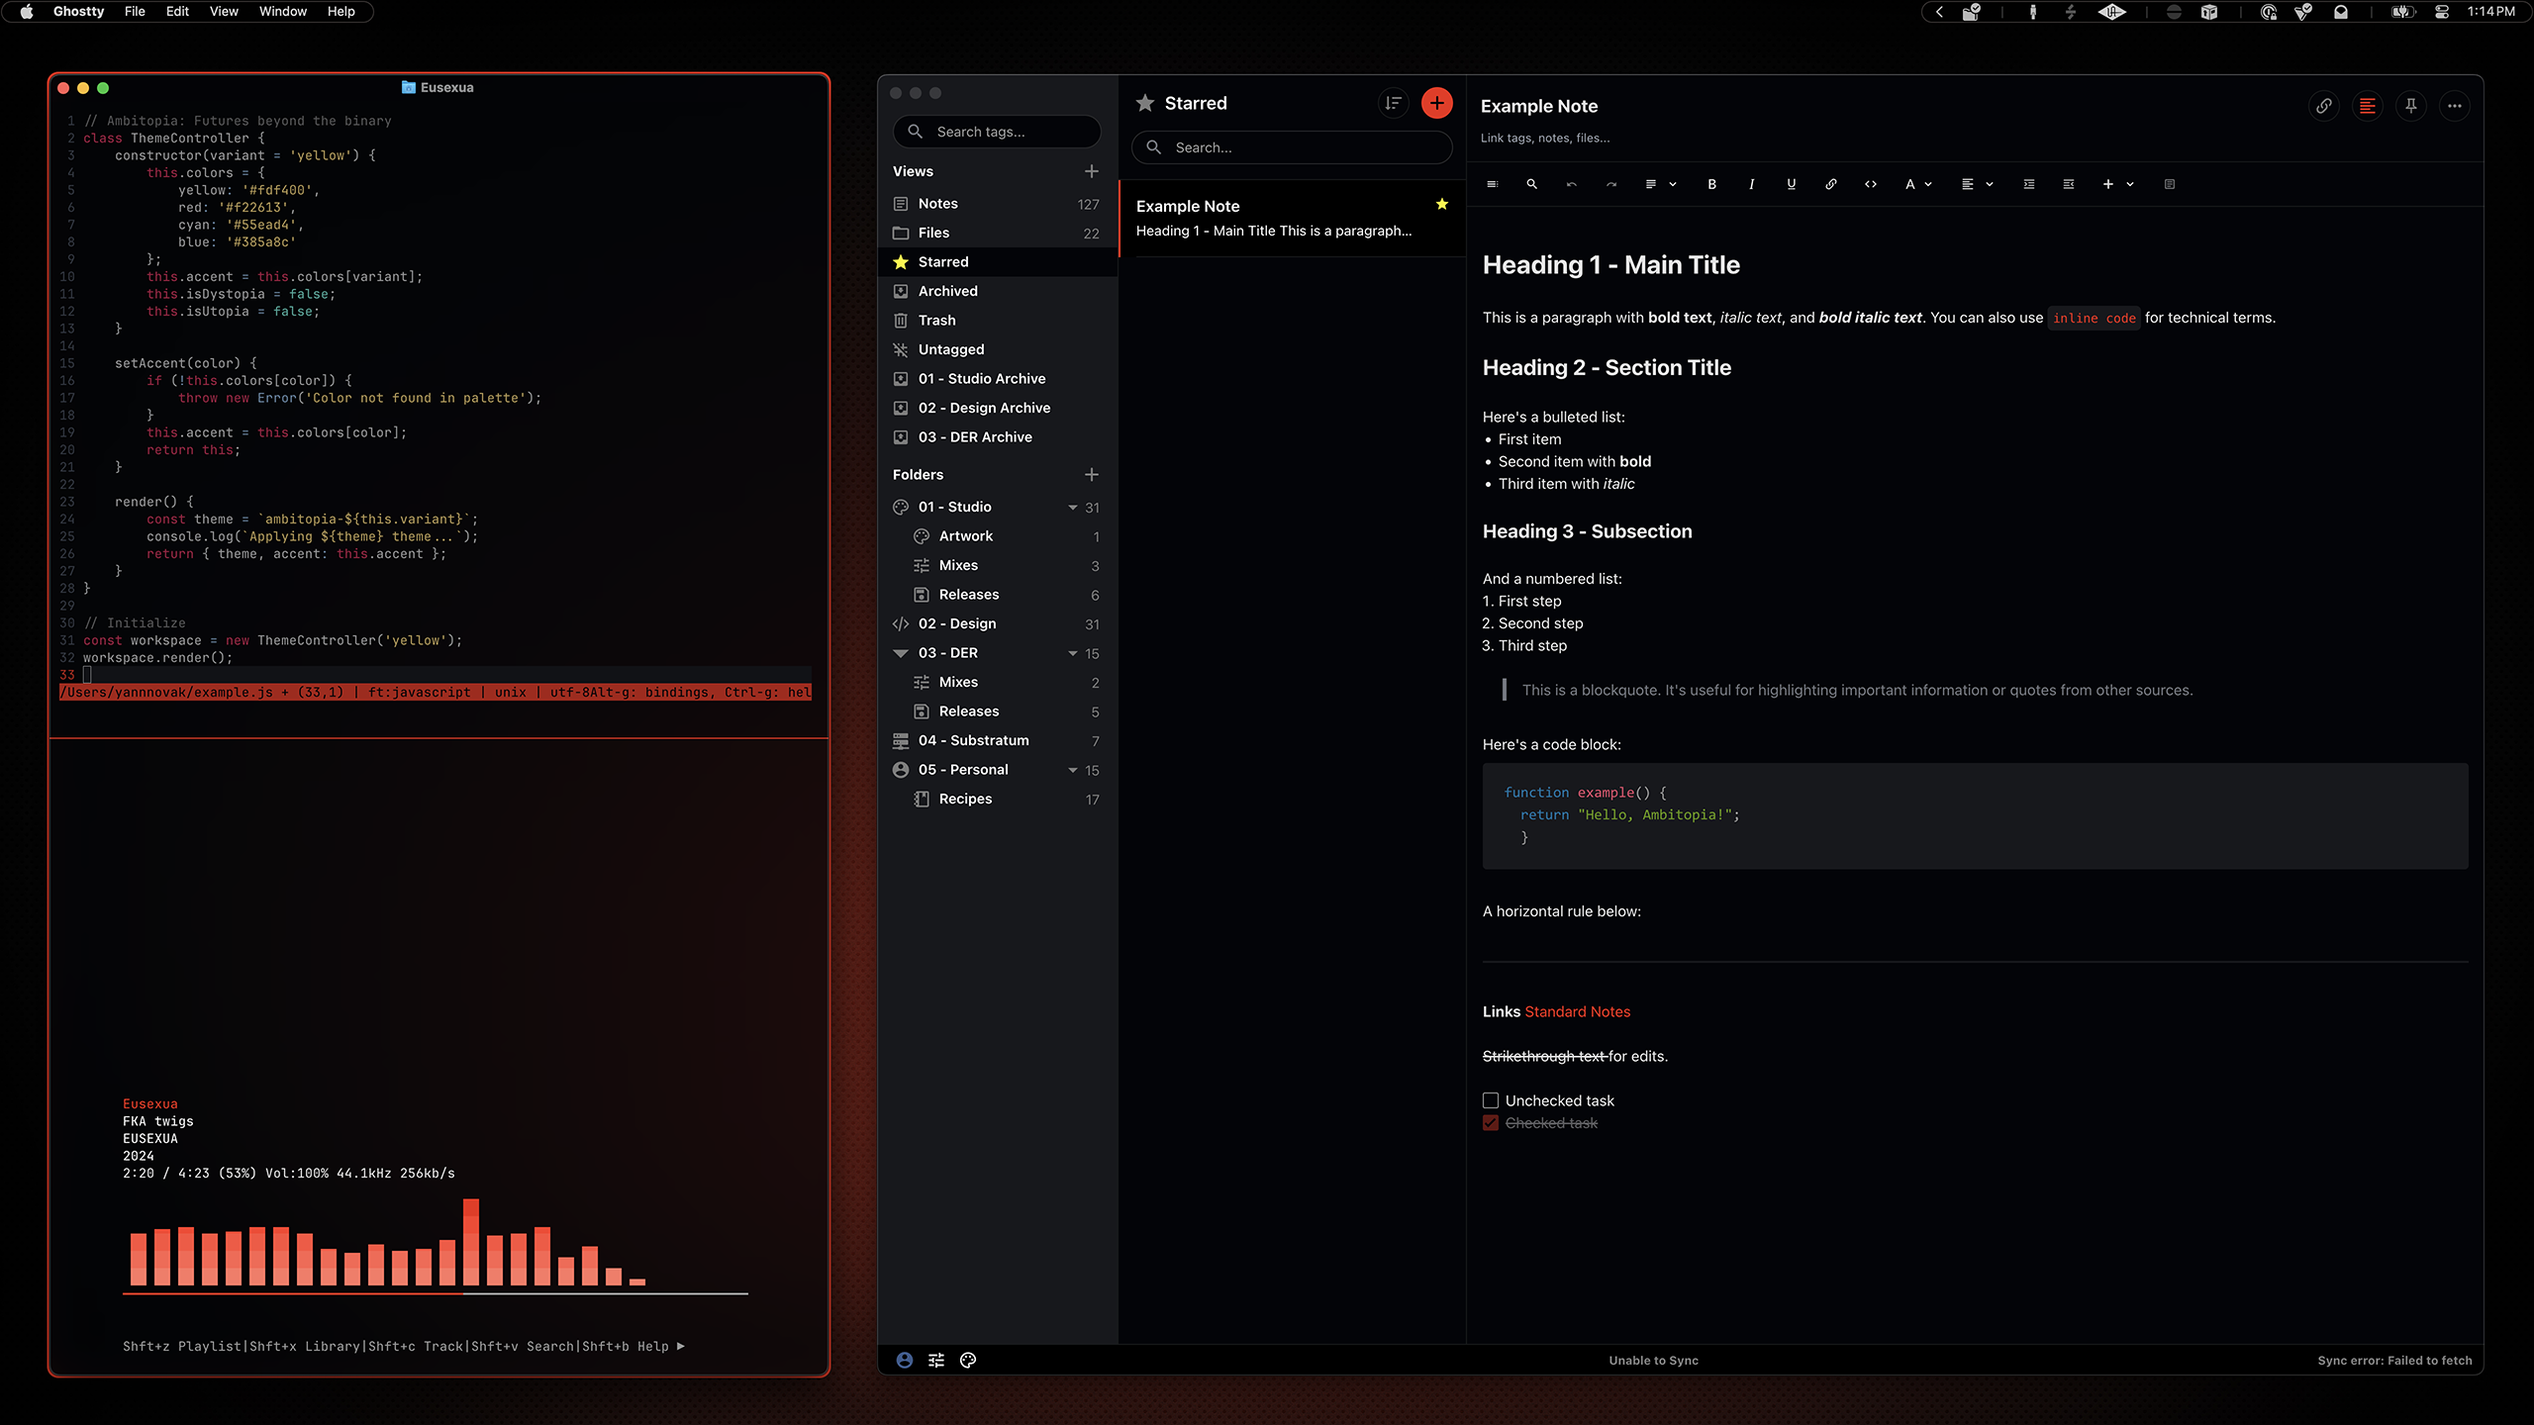
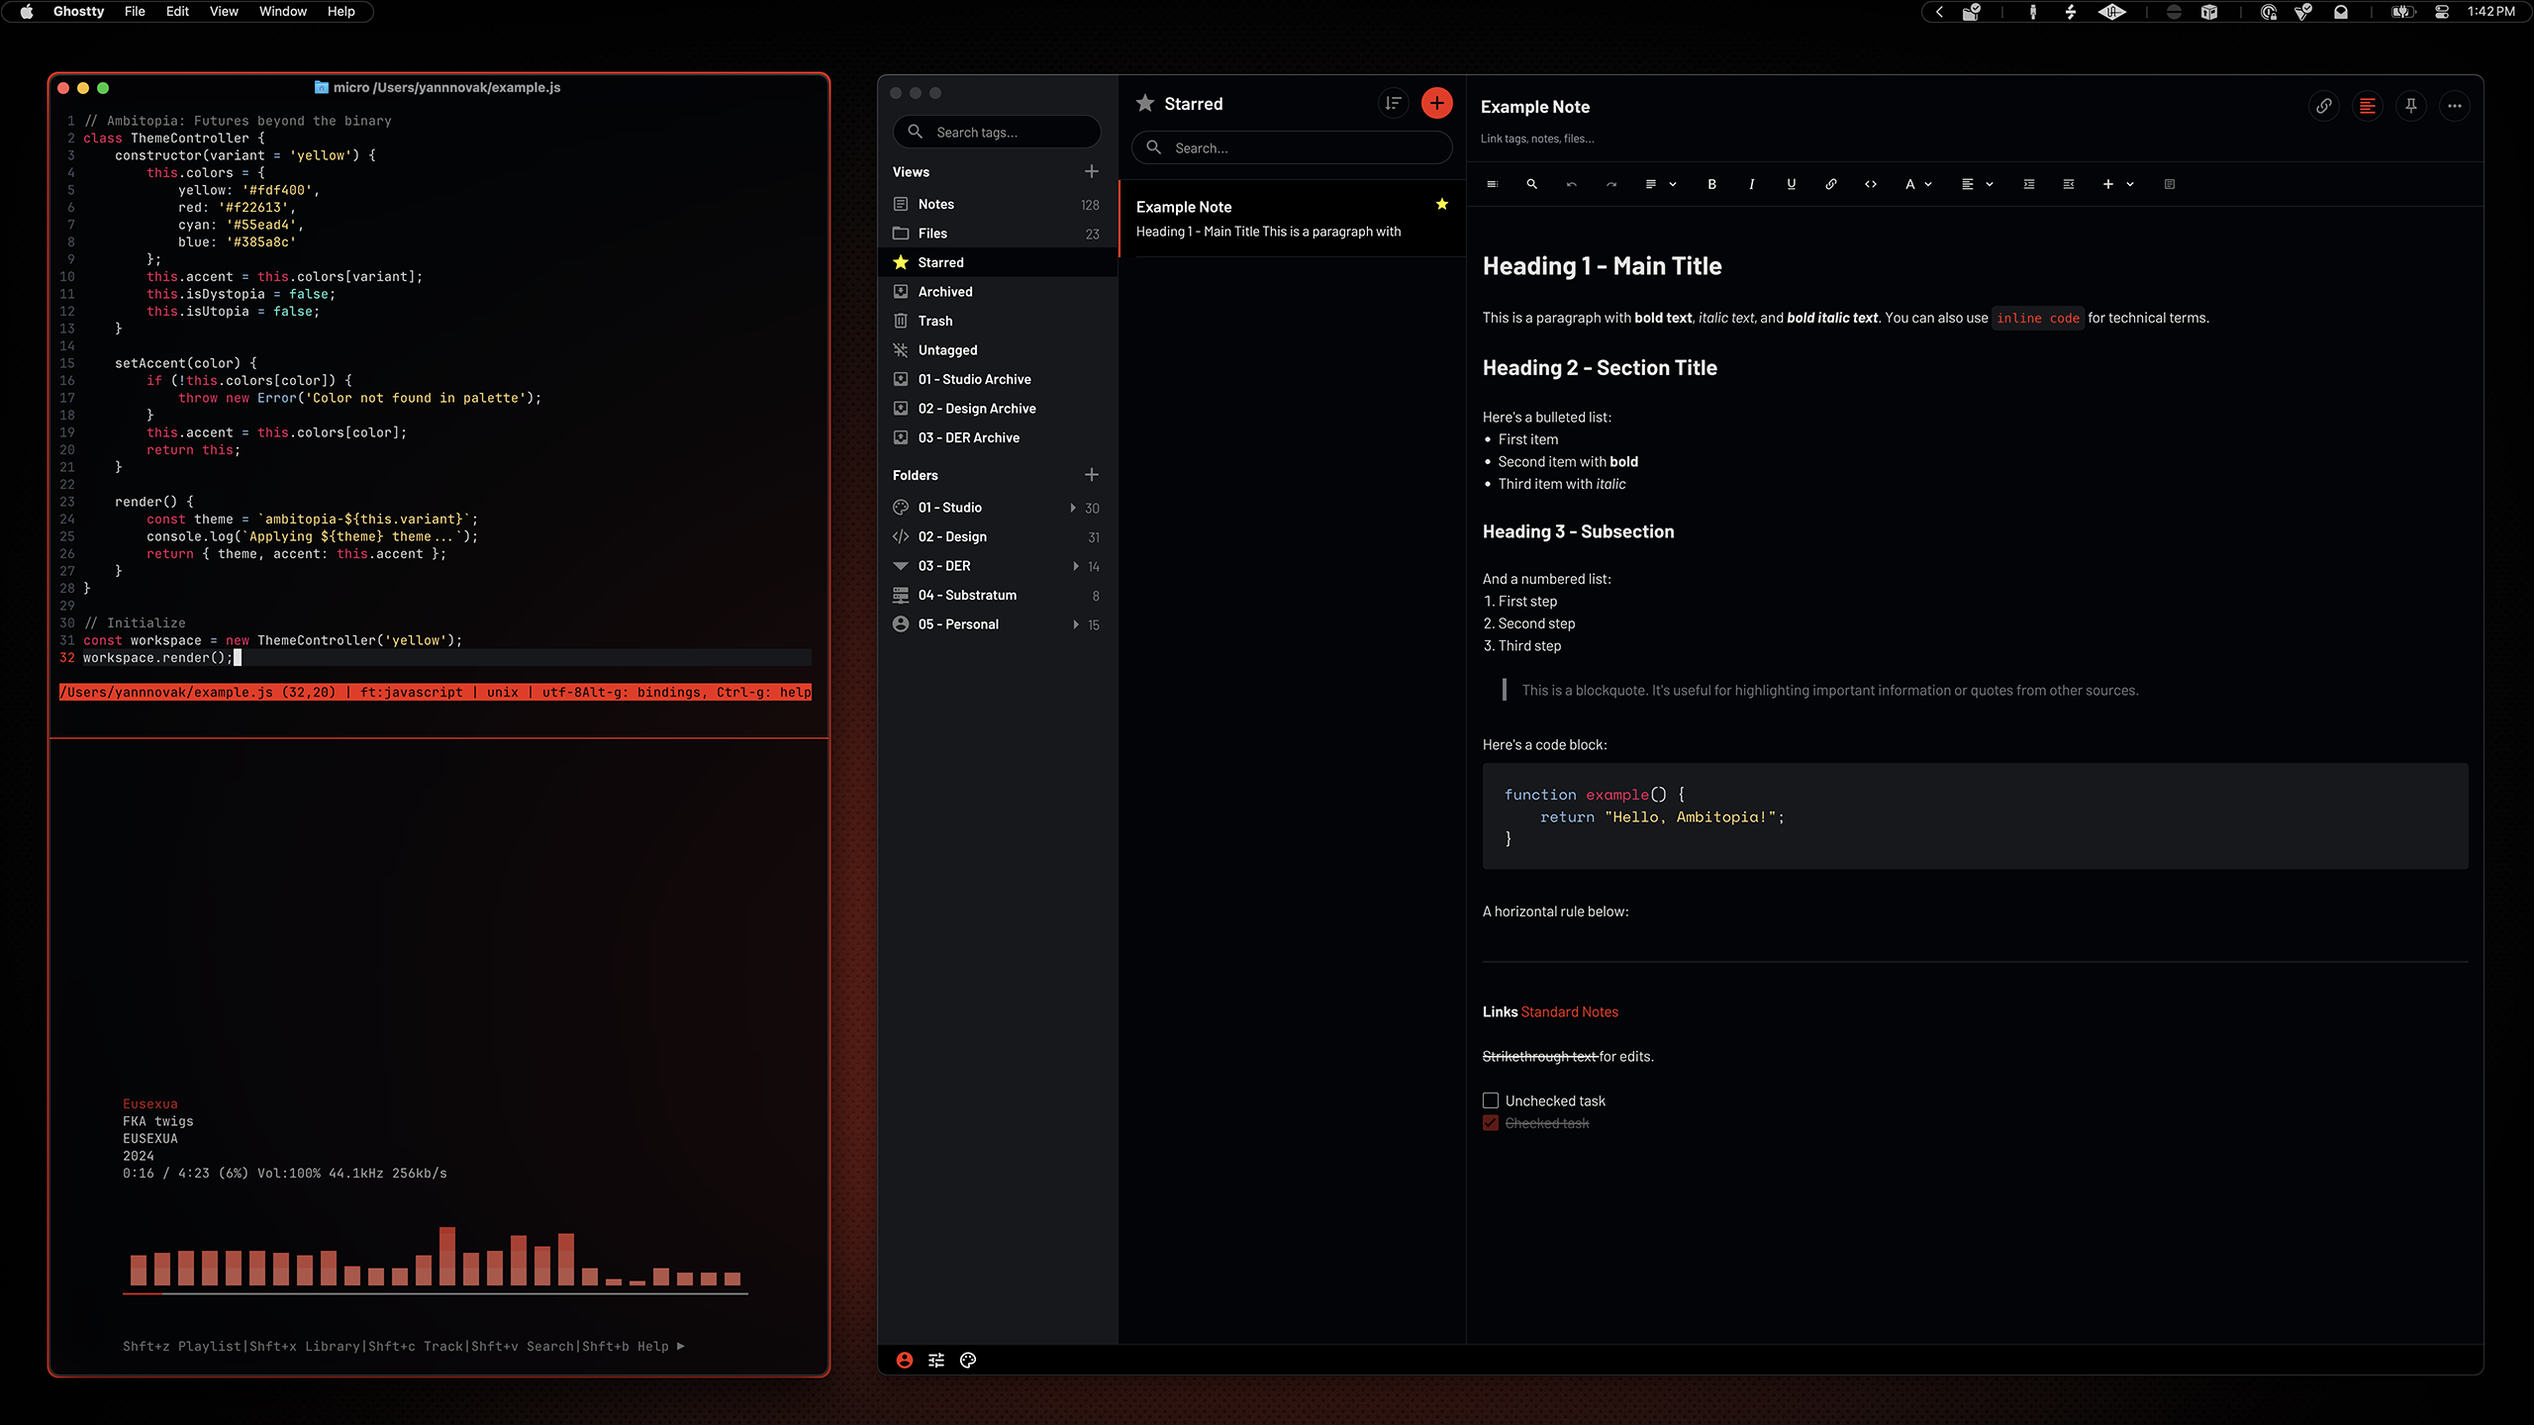
Added Kagi theme, added custom fonts to various themes, and updated syntax highlighting.

diff --git a/themes/kagi/ambitopia-yellow.css b/themes/kagi/ambitopia-yellow.css
@@ -1,0 +1,105 @@
+/* ==========================================
+= Ambitopia [yellow]
+========================================== */
+
+@import url(https://fonts.bunny.net/css?family=barlow:400,400i,500,500i,600,600i,700,700i);
+@import url(https://fonts.bunny.net/css?family=space-mono:400,400i,700,700i);
+
+:root {
+    --ambitopia-accent: #fdf400;
+    --ambitpoia-background: #030408;
+    --ambitpoia-background-secondary: #17181c;
+    --ambitpoia-background-tertiary: #2e2f32;
+
+    --input-bg: var(--ambitpoia-background-secondary);
+    --primary-hover: var(--ambitopia-accent);
+    --result-item-title-border_hover: var(--ambitopia-accent);
+    --nav_n_se_line: var(--ambitopia-accent);
+    --related-item-bg: var(--ambitpoia-background-secondary);
+
+    --hover-bg: color-mix(in srgb, var(--ambitpoia-background) 20%, transparent);
+    --related-item-hover-bg: var(--ambitpoia-background-tertiary);
+
+    --warning: #f9690e;
+}
+.doggo_sit_a {
+    display:none;
+}
+body {
+    font-family: "Barlow", sans-serif;
+    font-weight: 400;
+    font-style: normal;
+}
+.search-form .searchFormSubmitBtn {
+font-family: "Space Mono", sans-serif;
+    font-optical-sizing: auto;
+    font-weight: 500;
+    font-style: normal;
+}
+.theme_moon_dark {
+    --m_sri_gap_color: var(--ambitpoia-background);
+    --kagi-accent: var(--ambitpoia-background);
+    --background-color: var(--ambitpoia-background);
+}
+body, html, .app-header {
+    background-color: var(--ambitpoia-background);
+}
+.search-form .search-input-container {
+    border: none;
+    border-radius: 8px;
+}
+.search-form .search-input {
+    padding-left: 16px;
+}
+.search-form .search-form-icons {
+    padding-right: 10px;
+}
+body._0_auto-sug .search-input-container {
+    border-radius: 8px 8px 0 0;
+}
+.search-form .auto_suggestions {
+     border-radius: 0 0 8px 8px;
+}
+footer {
+    background-color: unset;
+}
+.m-h .m-app-logo {
+    display: none;
+}
+.__sri-title .__domain-favicon {
+    border-radius: 50%;
+}
+.auto_suggestions, .auto_suggestions .auto_suggestions_in {
+    border: none;
+}
+.search-form-icons .sfi_sep {
+    display: none;
+}
+#quickSettingsOpenBtn > a:nth-child(1) {
+    border: none;
+}
+#searchForm > div.search-input-container > div {
+    border: none;
+}
+#searchFormSubmit {
+    display: none;
+}
+#searchBar {
+    padding-left: 4px;
+}
+#searchForm {
+    margin-left: 0;
+}
+.logo {
+    color: var(--ambitopia-accent);
+}
+input:where(:not([type=checkbox],[type=radio]))::placeholder,textarea::placeholder {
+    color: transparent; 
+    opacity: 1
+}
+#_0_lens_table_active .k_ui_toggle_switch .k_ui_toggle_switch_bar, 
+.k_ui_toggle_switch input:checked~.k_ui_toggle_switch_bar, 
+.k_ui_toggle_switch.--enabled .k_ui_toggle_switch_bar {
+    background: var(--ambitopia-accent) !important;
+    border-color: var(--ambitopia-accent) !important;
+}

diff --git a/themes/kagi/ambitopia-red.css b/themes/kagi/ambitopia-red.css
@@ -1,0 +1,105 @@
+/* ==========================================
+= Ambitopia [red]
+========================================== */
+
+@import url(https://fonts.bunny.net/css?family=barlow:400,400i,500,500i,600,600i,700,700i);
+@import url(https://fonts.bunny.net/css?family=space-mono:400,400i,700,700i);
+
+:root {
+    --ambitopia-accent: #f22613;
+    --ambitpoia-background: #030408;
+    --ambitpoia-background-secondary: #17181c;
+    --ambitpoia-background-tertiary: #2e2f32;
+
+    --input-bg: var(--ambitpoia-background-secondary);
+    --primary-hover: var(--ambitopia-accent);
+    --result-item-title-border_hover: var(--ambitopia-accent);
+    --nav_n_se_line: var(--ambitopia-accent);
+    --related-item-bg: var(--ambitpoia-background-secondary);
+
+    --hover-bg: color-mix(in srgb, var(--ambitpoia-background) 20%, transparent);
+    --related-item-hover-bg: var(--ambitpoia-background-tertiary);
+
+    --warning: #f9690e;
+}
+.doggo_sit_a {
+    display:none;
+}
+body {
+    font-family: "Barlow", sans-serif;
+    font-weight: 400;
+    font-style: normal;
+}
+.search-form .searchFormSubmitBtn {
+font-family: "Space Mono", sans-serif;
+    font-optical-sizing: auto;
+    font-weight: 500;
+    font-style: normal;
+}
+.theme_moon_dark {
+    --m_sri_gap_color: var(--ambitpoia-background);
+    --kagi-accent: var(--ambitpoia-background);
+    --background-color: var(--ambitpoia-background);
+}
+body, html, .app-header {
+    background-color: var(--ambitpoia-background);
+}
+.search-form .search-input-container {
+    border: none;
+    border-radius: 8px;
+}
+.search-form .search-input {
+    padding-left: 16px;
+}
+.search-form .search-form-icons {
+    padding-right: 10px;
+}
+body._0_auto-sug .search-input-container {
+    border-radius: 8px 8px 0 0;
+}
+.search-form .auto_suggestions {
+     border-radius: 0 0 8px 8px;
+}
+footer {
+    background-color: unset;
+}
+.m-h .m-app-logo {
+    display: none;
+}
+.__sri-title .__domain-favicon {
+    border-radius: 50%;
+}
+.auto_suggestions, .auto_suggestions .auto_suggestions_in {
+    border: none;
+}
+.search-form-icons .sfi_sep {
+    display: none;
+}
+#quickSettingsOpenBtn > a:nth-child(1) {
+    border: none;
+}
+#searchForm > div.search-input-container > div {
+    border: none;
+}
+#searchFormSubmit {
+    display: none;
+}
+#searchBar {
+    padding-left: 4px;
+}
+#searchForm {
+    margin-left: 0;
+}
+.logo {
+    color: var(--ambitopia-accent);
+}
+input:where(:not([type=checkbox],[type=radio]))::placeholder,textarea::placeholder {
+    color: transparent; 
+    opacity: 1
+}
+#_0_lens_table_active .k_ui_toggle_switch .k_ui_toggle_switch_bar, 
+.k_ui_toggle_switch input:checked~.k_ui_toggle_switch_bar, 
+.k_ui_toggle_switch.--enabled .k_ui_toggle_switch_bar {
+    background: var(--ambitopia-accent) !important;
+    border-color: var(--ambitopia-accent) !important;
+}

diff --git a/themes/obsidian/ambitopia/theme.css b/themes/obsidian/ambitopia/theme.css
@@ -2,7 +2,14 @@
 = Ambitopia
 ========================================== */
 
+@import url(https://fonts.bunny.net/css?family=barlow:400,400i,500,500i,600,600i,700,700i);
+@import url(https://fonts.bunny.net/css?family=space-mono:400,400i,700,700i);
+
 .theme-dark {
+    --font-interface-theme: "Barlow";
+    --font-monospace-theme: "Space Mono";
+    --font-text-theme: var(--font-interface-theme);
+    
     --color-base-00: #000;
 	--color-base-05: #030408;
 	--color-base-10: #17181c;

diff --git a/themes/kagi/README.md b/themes/kagi/README.md
@@ -1,0 +1,44 @@
+# Kagi
+
+You may have noticed that privacy is a thread running through the apps I chose to include, and that extends to my search engine. Kagi is by far my favorite. So I was super excited to discover I could theme Kagi. Because I could include custom fonts, that inspired me to add custom fonts in a number of my themes across Ambitopia.
+
+## Preview
+
+![Screenshot with yellow wallpaper and showing Vivaldi in yellow](../../assets/screenshots/vivaldi-yellow.png)
+
+<p align="center">
+    Yellow Variant
+</p>
+<br>
+
+![Screenshot with red wallpaper and showing Vivaldi in red](../../assets/screenshots/vivaldi-red.png)
+
+<p align="center">
+    Red Variant
+</p>
+
+## Installation
+
+### 00. Before you start
+- Kagi subscription required to use custom themes
+- [Kagi](https://kagi.com/)
+
+### 01. Open Kagi theme settings
+
+Go to Kagi Settings → Appearance → Custom CSS
+
+### 02. Paste theme code
+
+Choose your variant, then copy and paste the contents into the Custom CSS field.
+
+**Yellow variant:** [ambitopia-yellow.css](ambitopia-yellow.css)
+
+**Red variant:** [ambitopia-red.css](ambitopia-red.css)
+
+### 03. Save changes
+
+Click **Save** at the bottom of the settings page.
+
+> [!NOTE]
+> Kagi is a subscription service, so you will need to be a subscriber to use custom themes.
+> This theme is based on [Purple Minimalist Theme](https://gist.github.com/andylunsford/1680b74b0bb1896694047c74470f396f) by Andy Lunsford. Since this was my first Kagi theme, I found it easier to start with one that had similar goals: not too much styling, but heavy on color palette changes.

diff --git a/PALETTE.md b/PALETTE.md
@@ -1,6 +1,17 @@
-# Ambitopia Color Palette
+# Ambitopia Palette
 
-The Ambitopia design system is built around a dark color palette with high-contrast accent colors, and muted versions of the primary colors for use for syntax highlighting. The palette is designed with a nod to a cyberpunk aesthetic.
+The Ambitopia design system is built around a dark color palette with high-contrast accent colors, and muted versions of the primary colors for use in syntax highlighting. The palette is designed with a nod to a cyberpunk aesthetic.
+
+## Typography
+
+### Interface Fonts
+- **Barlow** - Primary interface font ([GitHub](https://github.com/jpt/barlow))
+
+### Code Fonts
+- **SpaceMono Nerd Font** - Monospace font with icon support ([GitHub](https://github.com/ryanoasis/nerd-fonts/))
+
+### Display Fonts
+- **Ndot 57** - Dot matrix display font used for branding and widget day-of-week ([GitHub](https://github.com/xeji01/nothingfont))
 
 ## Core Colors
 

diff --git a/README.md b/README.md
@@ -83,6 +83,7 @@ The two color variants serve different sides of my creative practice. Yellow is 
 
 ### Themes
 
+- [Kagi](themes/kagi/README.md) - Search engine
 - [Live](themes/live/README.md) - Digital audio workstation
 - [Obsidian](themes/obsidian/README.md) - Knowledge base
 - [Raycast](themes/raycast/README.md) - App launcher
@@ -151,6 +152,7 @@ ambitopia/
 │   ├── kew/              # Music player
 │   └── micro/            # Terminal text editor
 ├── themes/
+│   ├── kagi/             # Search engine
 │   ├── live/             # DAW
 │   ├── obsidian/         # Knowledge base
 │   ├── raycast/          # App launcher

diff --git a/themes/vscode/README.md b/themes/vscode/README.md
@@ -2,8 +2,6 @@
 
 My VS Code theme is based on [Dreamweaver Dark Theme Modern](https://github.com/amnweb/Dreamweaver-Dark-Theme). I used Dreamweaver far longer than I should have (10+ years), and when I moved to a modern IDE I wanted the syntax highlighting to match to make the transition smoother. The Ambitopia version is completely transformed, but basing it this way allowed me to keep some of the syntax highlighting I was used to, even if it's in my color palette now.
 
-**Version:** 1.0.0
-
 ## Preview
 
 ![Screenshot with yellow wallpaper and showing VSCodium in yellow](../../assets/screenshots/vscode-yellow.png)

diff --git a/themes/obsidian/README.md b/themes/obsidian/README.md
@@ -2,8 +2,6 @@
 
 I am using Obsidian as a replacement for Notion, so there may be some sections of the app that are neglected, but I tried to just change colors so it would be consistent across all use-cases. I use [Iconic](https://github.com/gfxholo/iconic) to add icons to my folders and files. I felt the theme would be more useful to others without my hyper-specific section icons hard coded.
 
-**Version:** 1.0.0
-
 ## Preview
 
 ![Screenshot with yellow wallpaper and showing Obsidian in yellow](../../assets/screenshots/obsidian-yellow.png)

diff --git a/themes/standard-notes/README.md b/themes/standard-notes/README.md
@@ -2,9 +2,6 @@
 
 Standard Notes was the most important theme in Ambitopia because I spend so much time using it, so I spent the most time on it. That said, I still need to get its syntax highlighting inline with the rest of the system, but it's close.
 
-**Version \[Yellow\]:** 1.0.9  
-**Version \[Red\]:** 1.0.2
-
 ## Preview
 
 ![Screenshot with yellow wallpaper and showing Standard Notes in yellow](../../assets/screenshots/standard-notes-yellow.png)

diff --git a/themes/thunderbird/README.md b/themes/thunderbird/README.md
@@ -2,7 +2,7 @@
 
 This was the second theme I created after Vivaldi. I originally based it on another theme but can't remember which one—my first attempt failed miserably, and by the time I revisited it at the end of the project, I'd lost the source. I essentially rewrote it from scratch, so the missing attribution shouldn't be an issue.
 
-**Version:** 1.0.3
+**Version:** 1.0.4
 
 ## Preview
 

diff --git a/INSTALL.md b/INSTALL.md
@@ -76,6 +76,7 @@ Each application has its own installation guide. Choose the ones you want to the
 - [Obsidian](themes/obsidian/README.md) - Knowledge base
 - [Slack](themes/slack/README.md) - Messaging app
 - [Raycast](themes/raycast/README.md) - App launcher
+- [Kagi](themes/kagi/README.md) - Search engine
 - [Live](themes/live/README.md) - Digital audio workstation
 
 ### Widgets

diff --git a/themes/raycast/README.md b/themes/raycast/README.md
@@ -31,11 +31,9 @@ brew install --cask raycast
 
 ### 02. Configure theme colors
 
-Choose your variant:
-
 Open Raycast Settings → General → Open Theme Studio
 
-Manually enter the color values from:
+Choose your variant and manually enter the color values from:
 
 **Yellow variant:** [ambitopia-yellow.json](ambitopia-yellow.json)
 
